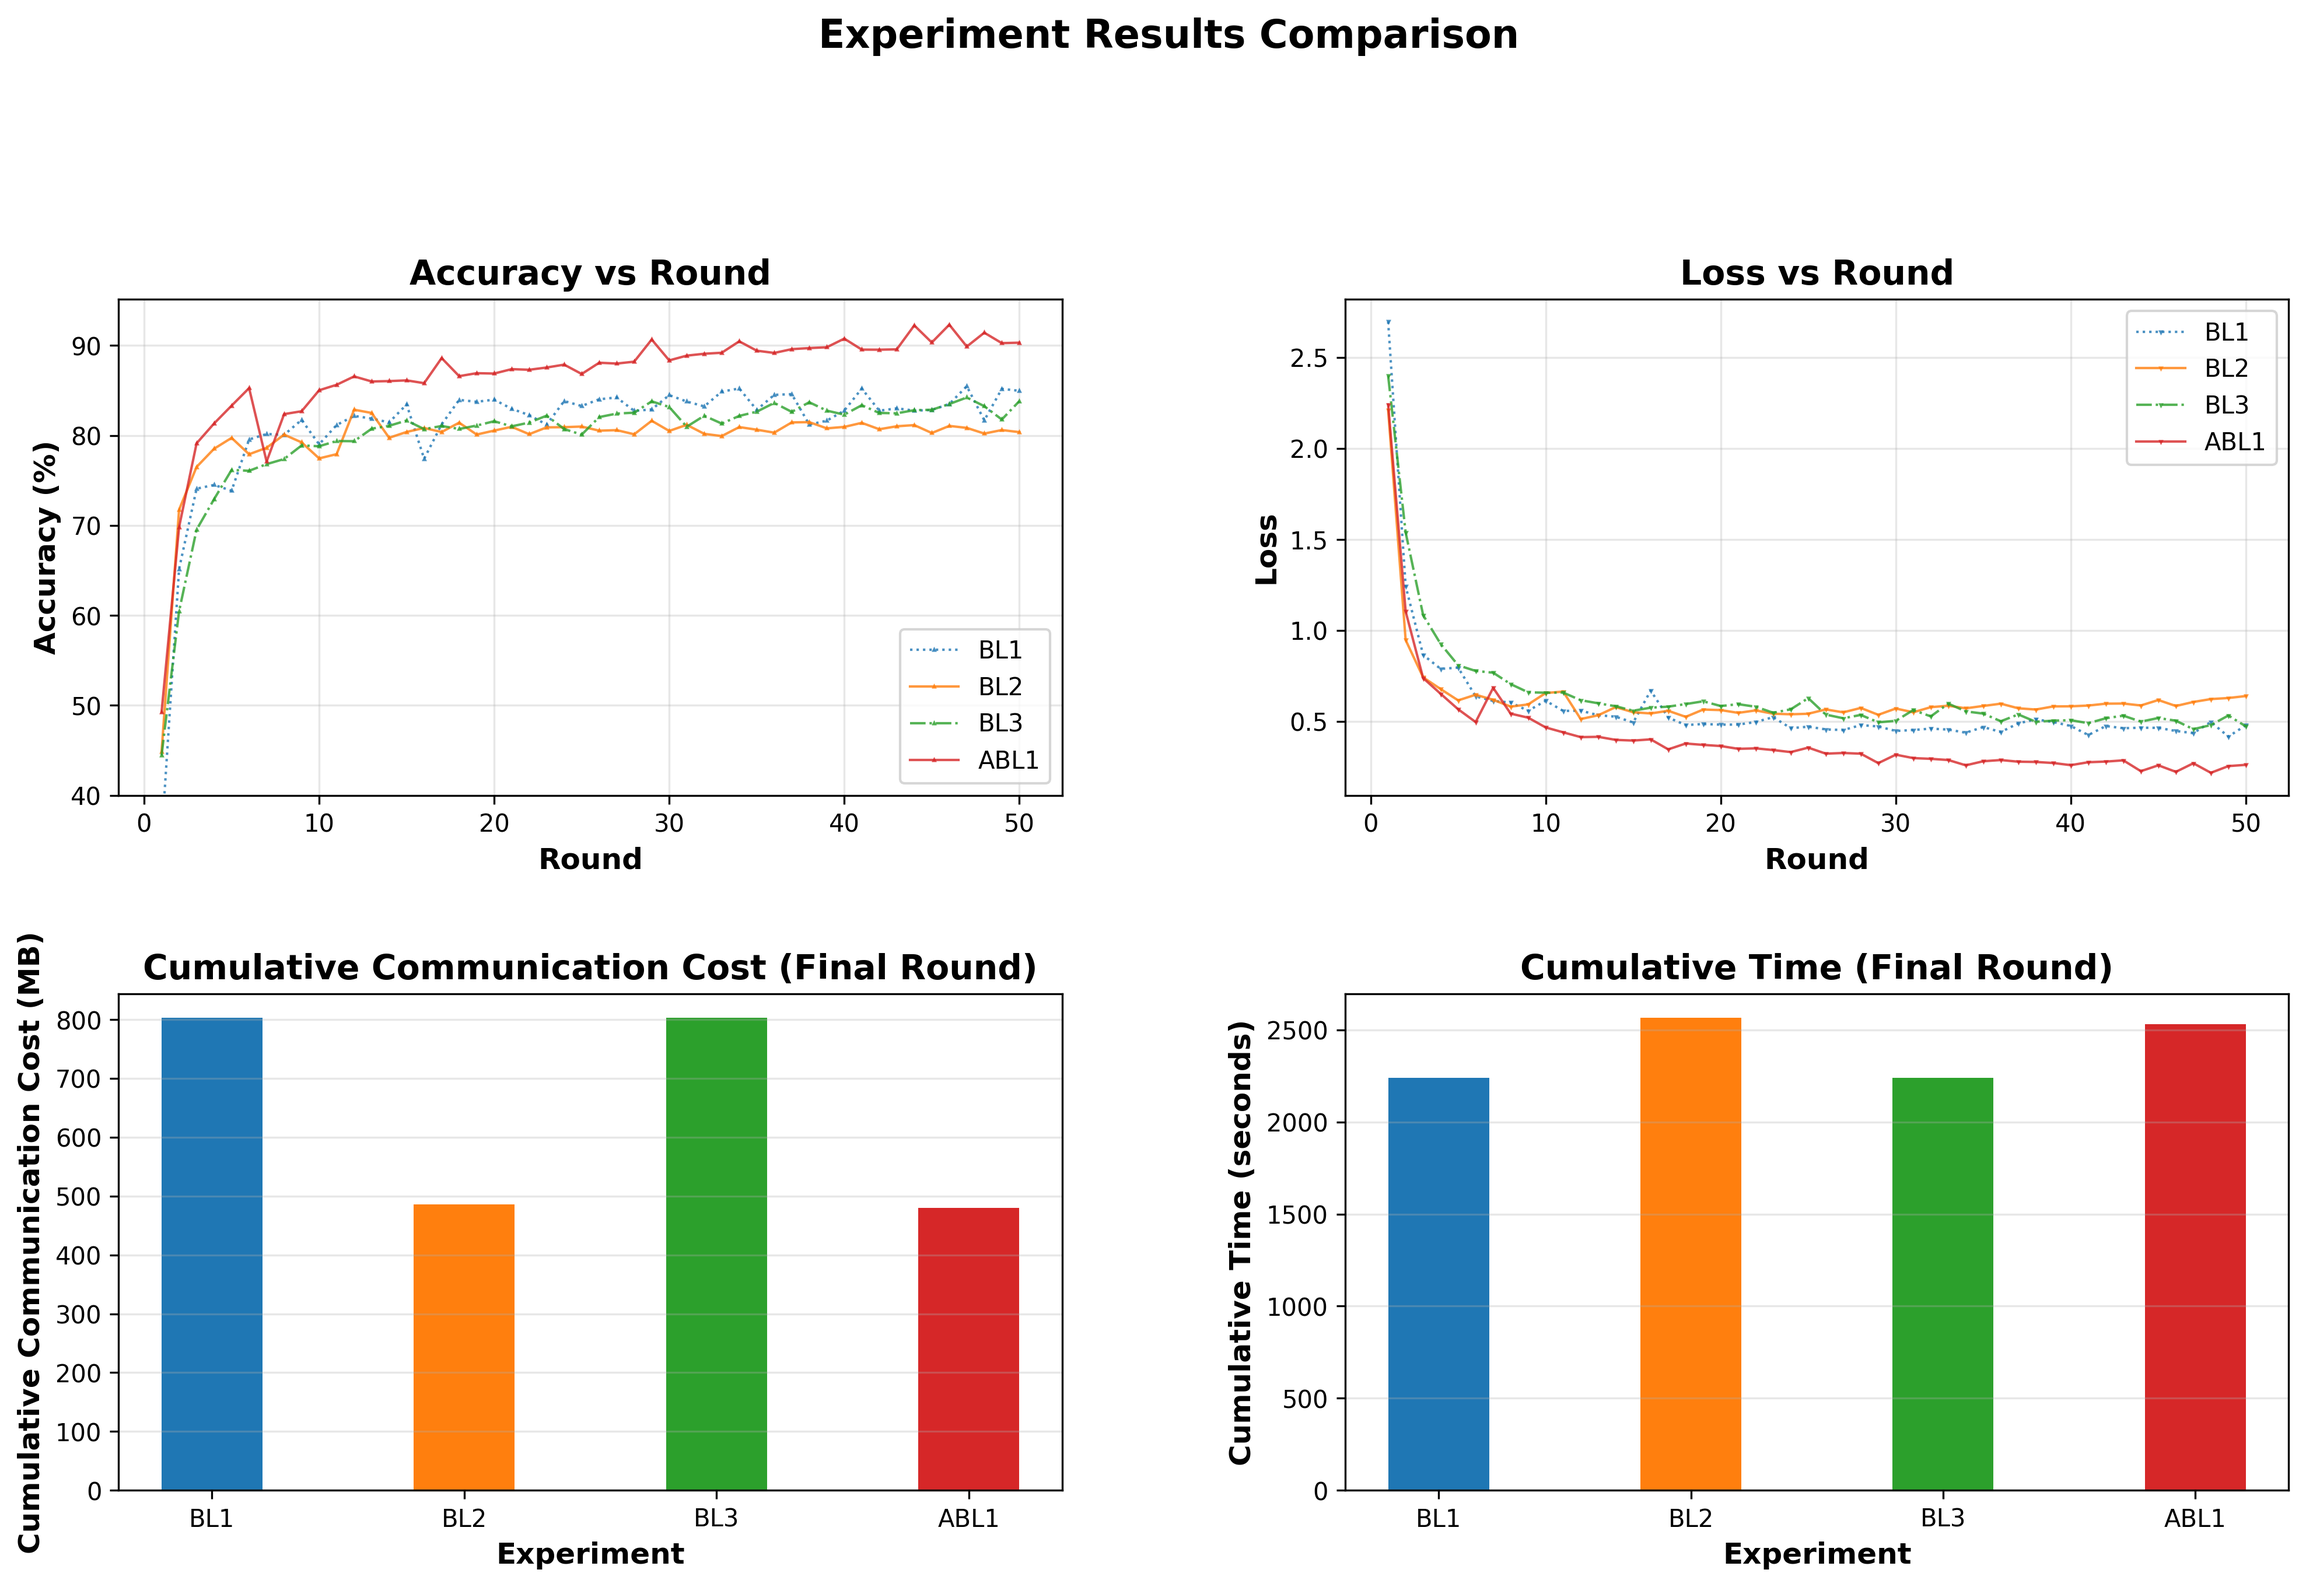
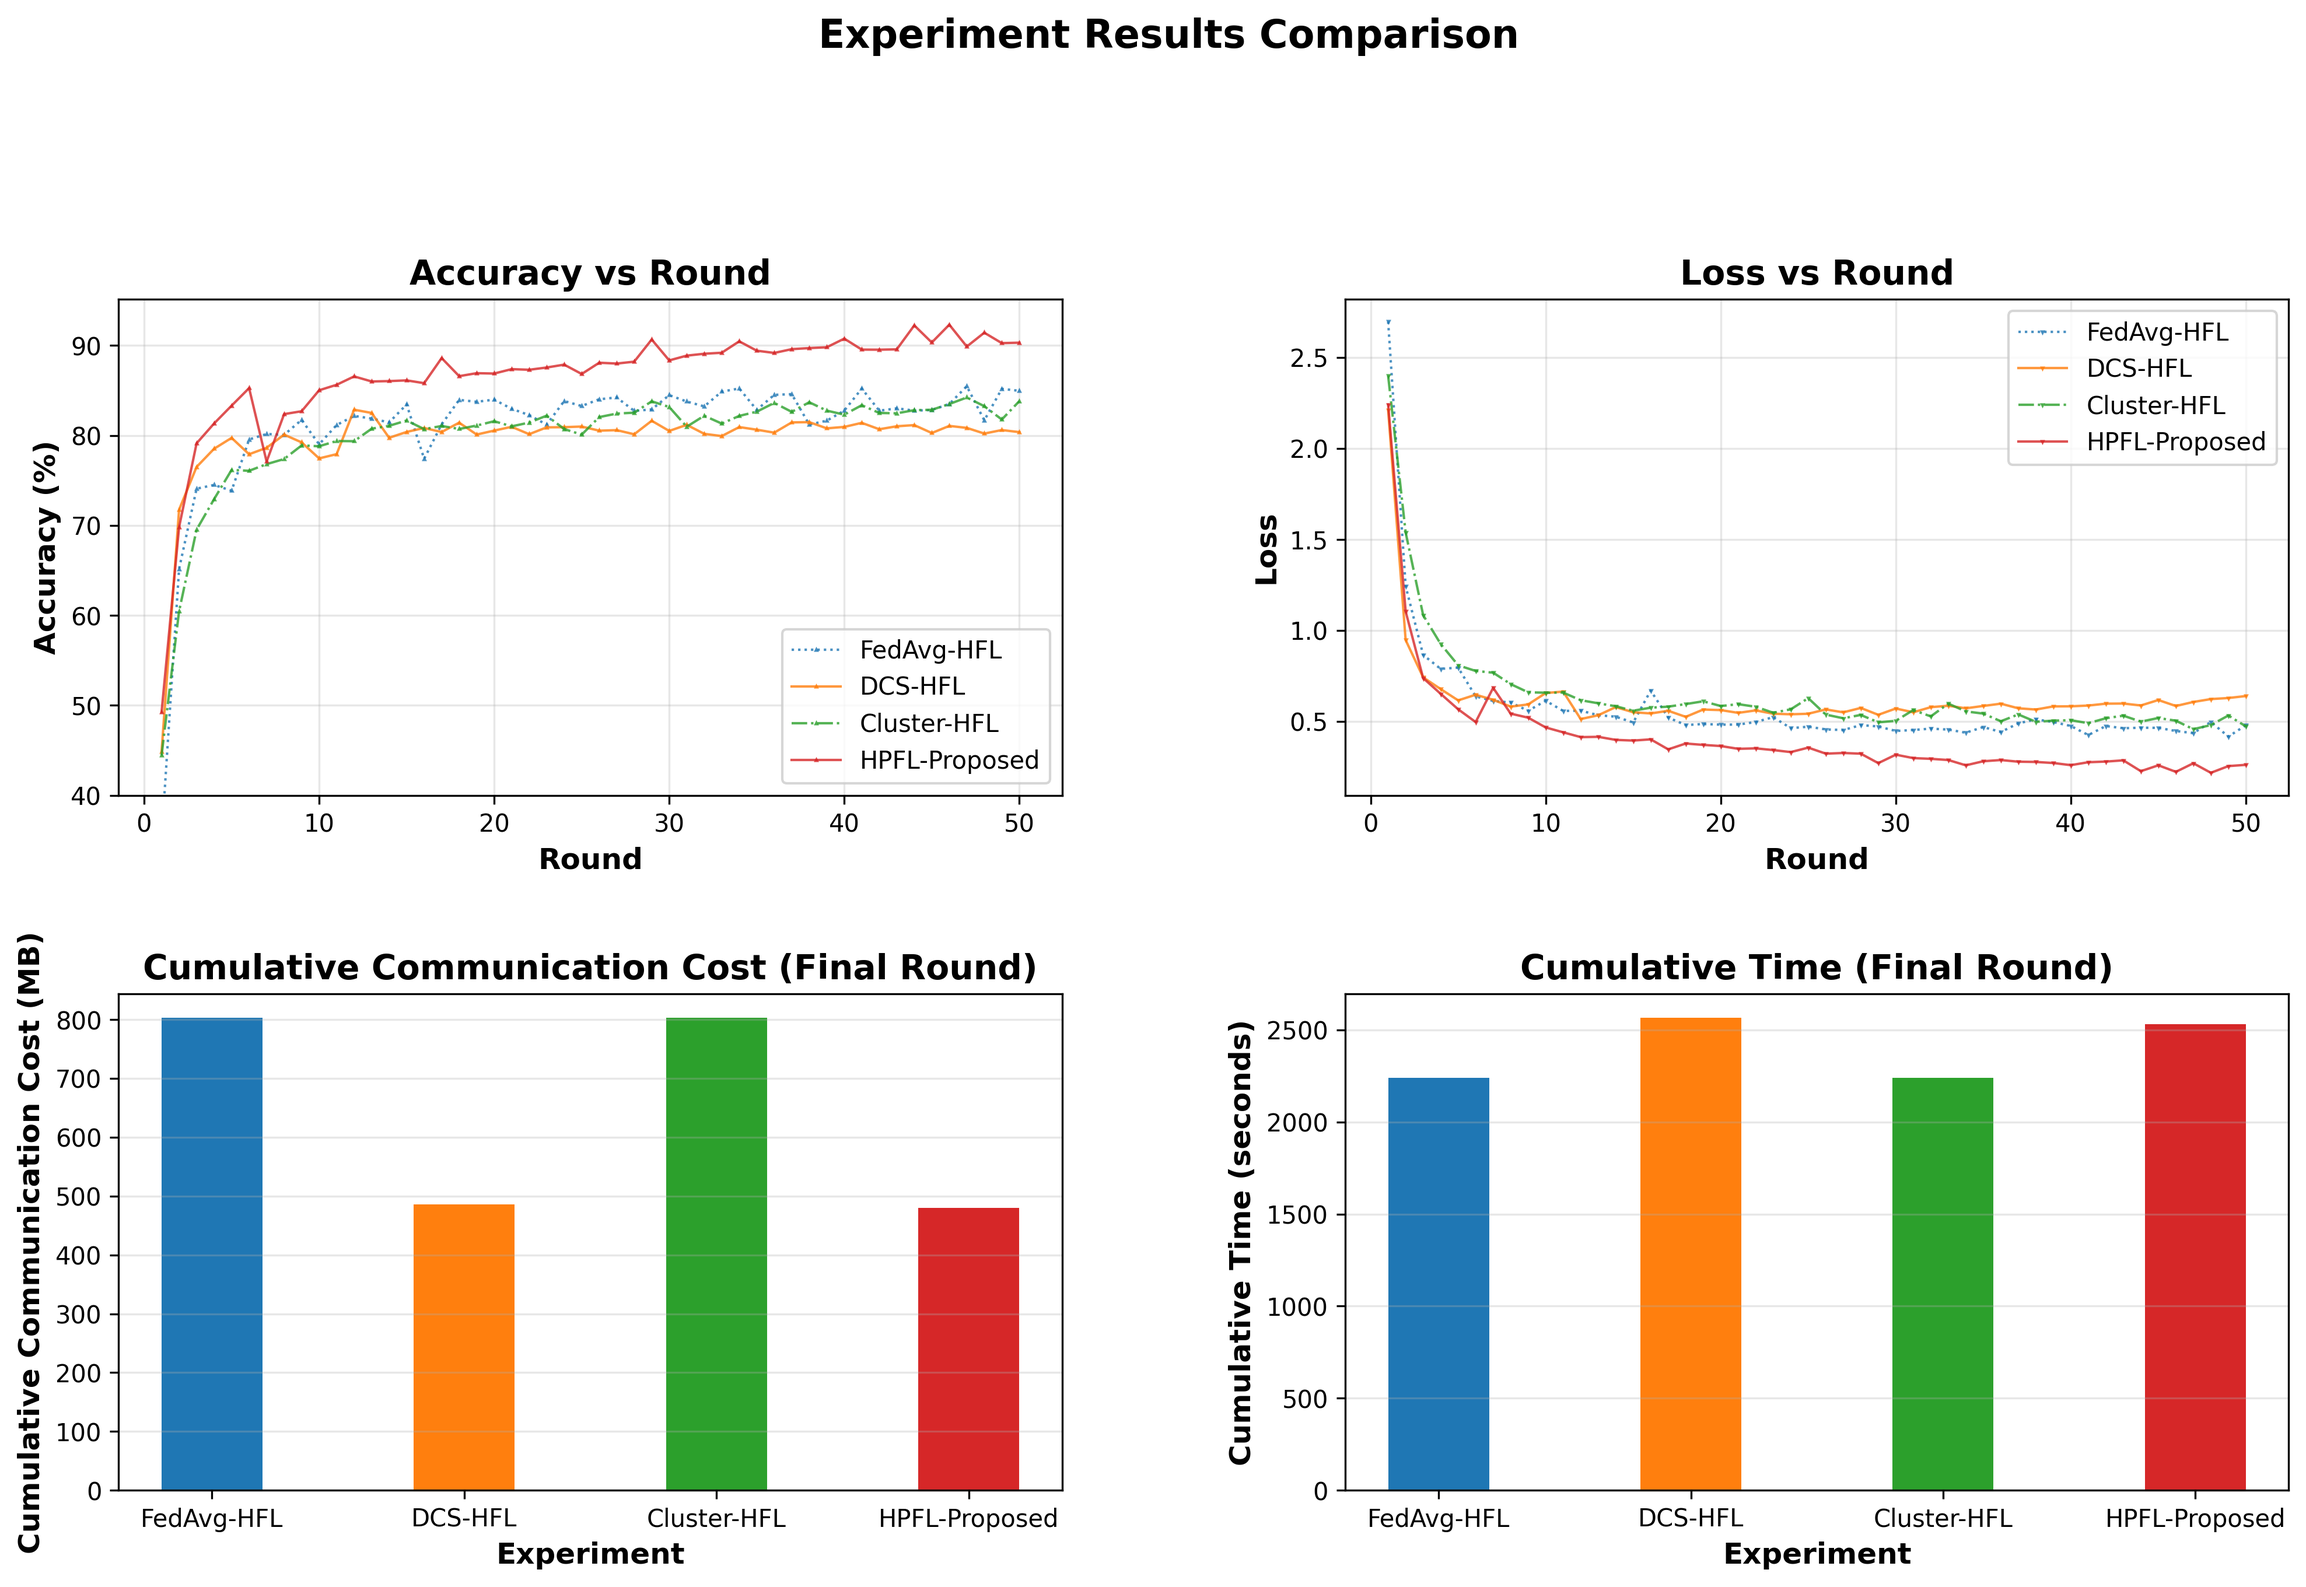
change label names.

diff --git a/scripts/visualize_results.py b/scripts/visualize_results.py
@@ -171,6 +171,8 @@ def visualize_experiments(experiments: Dict[str, ExperimentData], output_path: O
         'abl1': {'color': '#d62728', 'linestyle': 'solid', 'linewidth': 1, 'markersize': 0.5},
         'abl2': {'color': '#9467bd', 'linestyle': '--', 'linewidth': 1, 'markersize': 0.5},
     }
+
+    exp_names= {'bl1' : 'FedAvg-HFL', 'bl2' : 'DCS-HFL', 'bl3' : 'Cluster-HFL', 'abl1': 'HPFL-Proposed' }
     # Determine if any experiment has personalized metrics
     has_any_personalized = any(exp.has_personalized for exp in experiments.values())
     
@@ -186,7 +188,7 @@ def visualize_experiments(experiments: Dict[str, ExperimentData], output_path: O
     # ax1 = fig.add_subplot(gs[0, 0])
     # for exp_name, data in experiments.items():
     #     style = styles.get(exp_name, {'color': '#000000', 'linestyle': 'solid'} )
-    #     ax1.plot(data.rounds, data.global_acc, marker='o', label=exp_name.upper(), 
+    #     ax1.plot(data.rounds, data.global_acc, marker='o', label=exp_names[exp_name], 
     #              alpha=0.8, **style)
     # ax1.set_xlabel('Round', fontsize=12, fontweight='bold')
     # ax1.set_ylabel('Global Accuracy (%)', fontsize=12, fontweight='bold')
@@ -199,7 +201,7 @@ def visualize_experiments(experiments: Dict[str, ExperimentData], output_path: O
     # ax2 = fig.add_subplot(gs[0, 1])
     # for exp_name, data in experiments.items():
     #     style = styles.get(exp_name, {'color': '#000000', 'linestyle': 'solid'} )
-    #     ax2.plot(data.rounds, data.global_loss, marker='s', label=exp_name.upper(), 
+    #     ax2.plot(data.rounds, data.global_loss, marker='s', label=exp_names[exp_name], 
     #                alpha=0.8, **style)
     # ax2.set_xlabel('Round', fontsize=12, fontweight='bold')
     # ax2.set_ylabel('Global Loss', fontsize=12, fontweight='bold')
@@ -220,7 +222,7 @@ def visualize_experiments(experiments: Dict[str, ExperimentData], output_path: O
             valid_rounds = [r for r, pa in zip(data.rounds, data_to_plot) if pa is not None]
             valid_acc = [pa for pa in data_to_plot if pa is not None]
             if valid_rounds:
-                ax3.plot(valid_rounds, valid_acc, marker='^', label=exp_name.upper(), 
+                ax3.plot(valid_rounds, valid_acc, marker='^', label=exp_names[exp_name], 
                         alpha=0.8, **style)
         ax3.set_xlabel('Round', fontsize=12, fontweight='bold')
         ax3.set_ylabel('Accuracy (%)', fontsize=12, fontweight='bold')
@@ -240,7 +242,7 @@ def visualize_experiments(experiments: Dict[str, ExperimentData], output_path: O
             valid_rounds = [r for r, gl in zip(data.rounds, data_to_plot) if gl is not None]
             valid_loss = [gl for gl in data_to_plot if gl is not None]
             if valid_rounds:
-                ax4.plot(valid_rounds, valid_loss, marker='v', label=exp_name.upper(), 
+                ax4.plot(valid_rounds, valid_loss, marker='v', label=exp_names[exp_name], 
                         alpha=0.8, **style)
         ax4.set_xlabel('Round', fontsize=12, fontweight='bold')
         ax4.set_ylabel('Loss', fontsize=12, fontweight='bold')
@@ -252,7 +254,7 @@ def visualize_experiments(experiments: Dict[str, ExperimentData], output_path: O
         # ax5 = fig.add_subplot(gs[2, 0])
         # for exp_name, data in experiments.items():
         #     style = styles.get(exp_name, {'color': '#000000', 'linestyle': 'solid'} )
-        #     ax5.plot(data.rounds, data.round_cost_kb, marker='o', label=exp_name.upper(), 
+        #     ax5.plot(data.rounds, data.round_cost_kb, marker='o', label=exp_names[exp_name], 
         #              alpha=0.8, **style)
         # ax5.set_xlabel('Round', fontsize=12, fontweight='bold')
         # ax5.set_ylabel('Round Communication Cost (KB)', fontsize=12, fontweight='bold')
@@ -264,7 +266,7 @@ def visualize_experiments(experiments: Dict[str, ExperimentData], output_path: O
         # ax6 = fig.add_subplot(gs[2, 1])
         # for exp_name, data in experiments.items():
         #     style = styles.get(exp_name, {'color': '#000000', 'linestyle': 'solid'} )
-        #     ax6.plot(data.rounds, data.round_time_s, marker='s', label=exp_name.upper(), 
+        #     ax6.plot(data.rounds, data.round_time_s, marker='s', label=exp_names[exp_name], 
         #              alpha=0.8, **style)
         # ax6.set_xlabel('Round', fontsize=12, fontweight='bold')
         # ax6.set_ylabel('Round Simulated Time (seconds)', fontsize=12, fontweight='bold')
@@ -280,7 +282,7 @@ def visualize_experiments(experiments: Dict[str, ExperimentData], output_path: O
         exp_keys = list(experiments.keys())
         for exp_name in exp_keys:
             data = experiments[exp_name]
-            bar_labels.append(exp_name.upper())
+            bar_labels.append(exp_names[exp_name])
             bar_colors.append(styles.get(exp_name, {'color': '#000000'})['color'])
             # Get last value, or 0 if list is empty
             if data.cumulative_data_mb:
@@ -314,7 +316,7 @@ def visualize_experiments(experiments: Dict[str, ExperimentData], output_path: O
         ax3 = fig.add_subplot(gs[1, 0])
         for exp_name, data in experiments.items():
             style = styles.get(exp_name, {'color': '#000000', 'linestyle': 'solid'} )
-            ax3.plot(data.rounds, data.round_cost_kb, marker='o', label=exp_name.upper(), 
+            ax3.plot(data.rounds, data.round_cost_kb, marker='o', label=exp_names[exp_name], 
                     linewidth=2, markersize=4, alpha=0.8, **style)
         ax3.set_xlabel('Round', fontsize=12, fontweight='bold')
         ax3.set_ylabel('Round Communication Cost (KB)', fontsize=12, fontweight='bold')
@@ -326,7 +328,7 @@ def visualize_experiments(experiments: Dict[str, ExperimentData], output_path: O
         ax4 = fig.add_subplot(gs[1, 1])
         for exp_name, data in experiments.items():
             style = styles.get(exp_name, {'color': '#000000', 'linestyle': 'solid'} )
-            ax4.plot(data.rounds, data.round_time_s, marker='s', label=exp_name.upper(), 
+            ax4.plot(data.rounds, data.round_time_s, marker='s', label=exp_names[exp_name], 
                     linewidth=2, markersize=4, alpha=0.8, **style)
         ax4.set_xlabel('Round', fontsize=12, fontweight='bold')
         ax4.set_ylabel('Round Simulated Time (seconds)', fontsize=12, fontweight='bold')
@@ -338,7 +340,7 @@ def visualize_experiments(experiments: Dict[str, ExperimentData], output_path: O
         ax5 = fig.add_subplot(gs[2, 0])
         for exp_name, data in experiments.items():
             style = styles.get(exp_name, {'color': '#000000', 'linestyle': 'solid'} )
-            ax5.plot(data.rounds, data.cumulative_data_mb, marker='o', label=exp_name.upper(), 
+            ax5.plot(data.rounds, data.cumulative_data_mb, marker='o', label=exp_names[exp_name], 
                     linewidth=2, markersize=4, alpha=0.8, **style)
         ax5.set_xlabel('Round', fontsize=12, fontweight='bold')
         ax5.set_ylabel('Cumulative Communication Cost (MB)', fontsize=12, fontweight='bold')
@@ -350,7 +352,7 @@ def visualize_experiments(experiments: Dict[str, ExperimentData], output_path: O
         ax6 = fig.add_subplot(gs[2, 1])
         for exp_name, data in experiments.items():
             style = styles.get(exp_name, {'color': '#000000', 'linestyle': 'solid'} )
-            ax6.plot(data.rounds, data.cumulative_time_s, marker='s', label=exp_name.upper(), 
+            ax6.plot(data.rounds, data.cumulative_time_s, marker='s', label=exp_names[exp_name], 
                     linewidth=2, markersize=4, alpha=0.8, **style)
         ax6.set_xlabel('Round', fontsize=12, fontweight='bold')
         ax6.set_ylabel('Cumulative Time (seconds)', fontsize=12, fontweight='bold')
